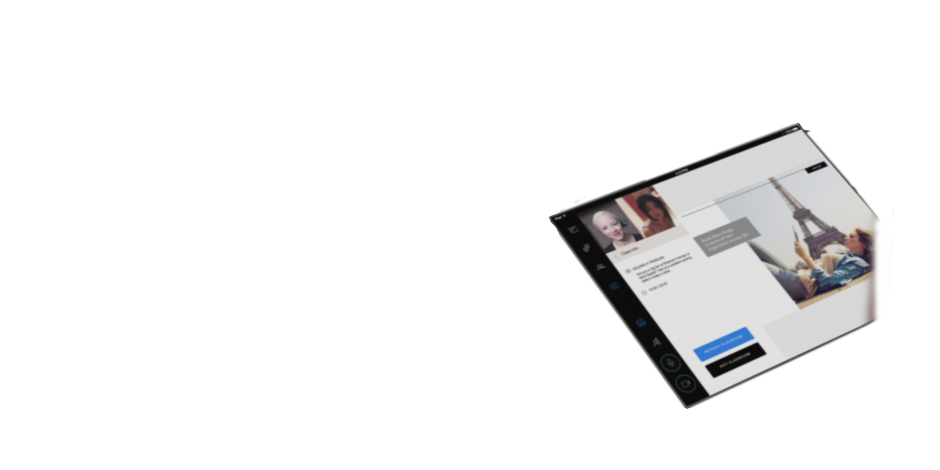
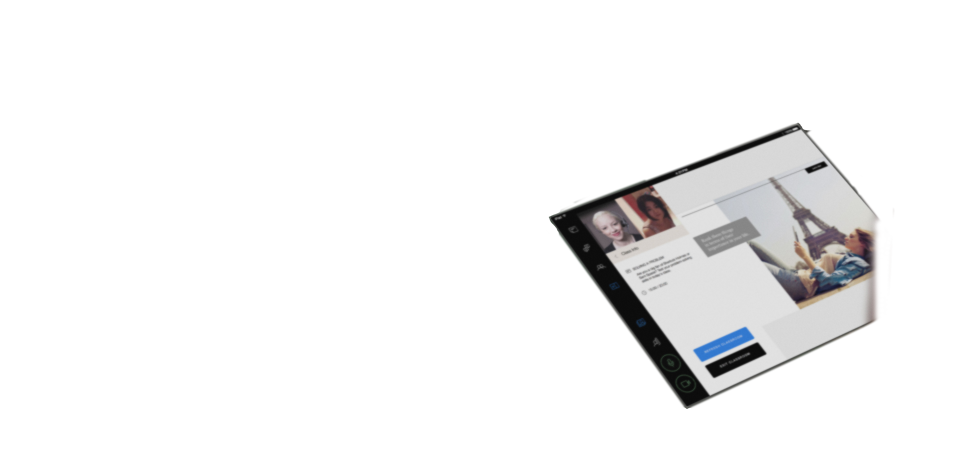
ken burns working nicely on first project

Changed region(s): [[0.5553, 0.2681, 0.9564, 0.8936]]

diff --git a/css/main.css b/css/main.css
@@ -171,6 +171,13 @@ section, footer{
   line-height: 22px;
 }
 
+footer{
+  height: 200px;
+  display: flex;
+  flex-direction: column;
+  justify-content: center;
+}
+
 section#intro{
   padding-top: 20%;
   display: flex;
@@ -182,46 +189,80 @@ section#intro p{
   text-align: center;
 }
 
-section.projects>div{
-  max-width: 940px;
+section.projects li{
+  max-width: 960px;
   width: 100%;
   height: 470px;
   position: relative;
   overflow: hidden;
 }
 
-#project-1 .projectTitle{
-  position: relative;
-  z-index: 1;
-  top: 136px;
-  left: 50px;
-  margin-top: -100px;
+.projectniceties{
+  width: 277px;
+  margin-left: 50px;
+  margin-top: 36px;
+}
+
+.projectTitle{
+}
+
+.viewProject{
+  font-family: "proxima-nova-light", Roboto, sans-serif;
+  text-transform: uppercase;
+  font-size: 20px;
+  text-align: center;
+}
+
+#project-1 .viewProject{
+  color: white;
+  margin-top: 214px;
+}
+
+.rightChevron{
+  margin-left: 20px;
+  margin-top: -4px;
 }
 
 .projectHero{
-  width: 940px;
+  width: 960px;
   height: 470px;
+  position: absolute;
+  z-index: -1;
+  top: 0;
+  left: 0;
+  opacity: 1;
 }
 
 .projectHero img{
   position: absolute;
-  width: 940px;
+  width: 960px;
+  -webkit-transform:scale(1.0)
+  transform:scale(1.0)
+
+  -webkit-transition: -webkit-transform 8s, opacity 8s;
+  transition: transform 8s, opacity 8s;
+
   transform-origin: 100% 100%;
   -webkit-transform-origin: 100% 100%;
 }
 
-.projectHero img.overlay{
+.projects li img.overlay{
   opacity: 0;
 }
 
-.projectHero:hover img.overlay{
-  animation: kenBurnsOpac 8s;
-  -webkit-animation: kenBurnsOpac 8s;
+.projects li:hover img.overlay{
+  /*animation: kenBurnsOpac 8s;
+  -webkit-animation: kenBurnsOpac 8s;*/
+  -webkit-transform:scale(1.05);
+  transform:scale(1.05);
+  opacity: 1;
 }
 
-.projectHero:hover img.underlay{
-  animation: kenBurns 8s;
-  -webkit-animation: kenBurns 8s;
+.projects li:hover img.underlay{
+  /*animation: kenBurns 8s;
+  -webkit-animation: kenBurns 8s;*/
+  -webkit-transform:scale(1.05);
+  transform:scale(1.05);
 }
 
 .downchevron{

diff --git a/index.html b/index.html
@@ -93,13 +93,22 @@
     </div>
     <div style="clear:both"></div>
     <section class="projects">
-      <div id="project-1">
-        <img src="images/projects/ef-classroom.svg" class="projectTitle" />
-        <div class="projectHero">
-          <img src="images/projects/classroom@2x.jpg" class="underlay" />
-          <img src="images/projects/classroom-trans@2x.png" class="overlay" />
-      </div>
-      </div>
+      <ul>
+        <li>
+          <div class="project" id="project-1">
+            <div class="projectniceties">
+              <img src="images/projects/ef-classroom.svg" class="projectTitle" />
+              <div class="viewProject">
+                View this project <img src="images/rightChevron.svg" class="rightChevron" />
+              </div>
+            </div>
+            <div class="projectHero">
+              <img src="images/projects/classroom@2x.jpg" class="underlay" />
+              <img src="images/projects/classroom-trans@2x.png" class="overlay" />
+            </div>
+          </div>
+        </li>
+      </ul>
     </section>
     <footer>
       &copy; Alexis Morin 2016
